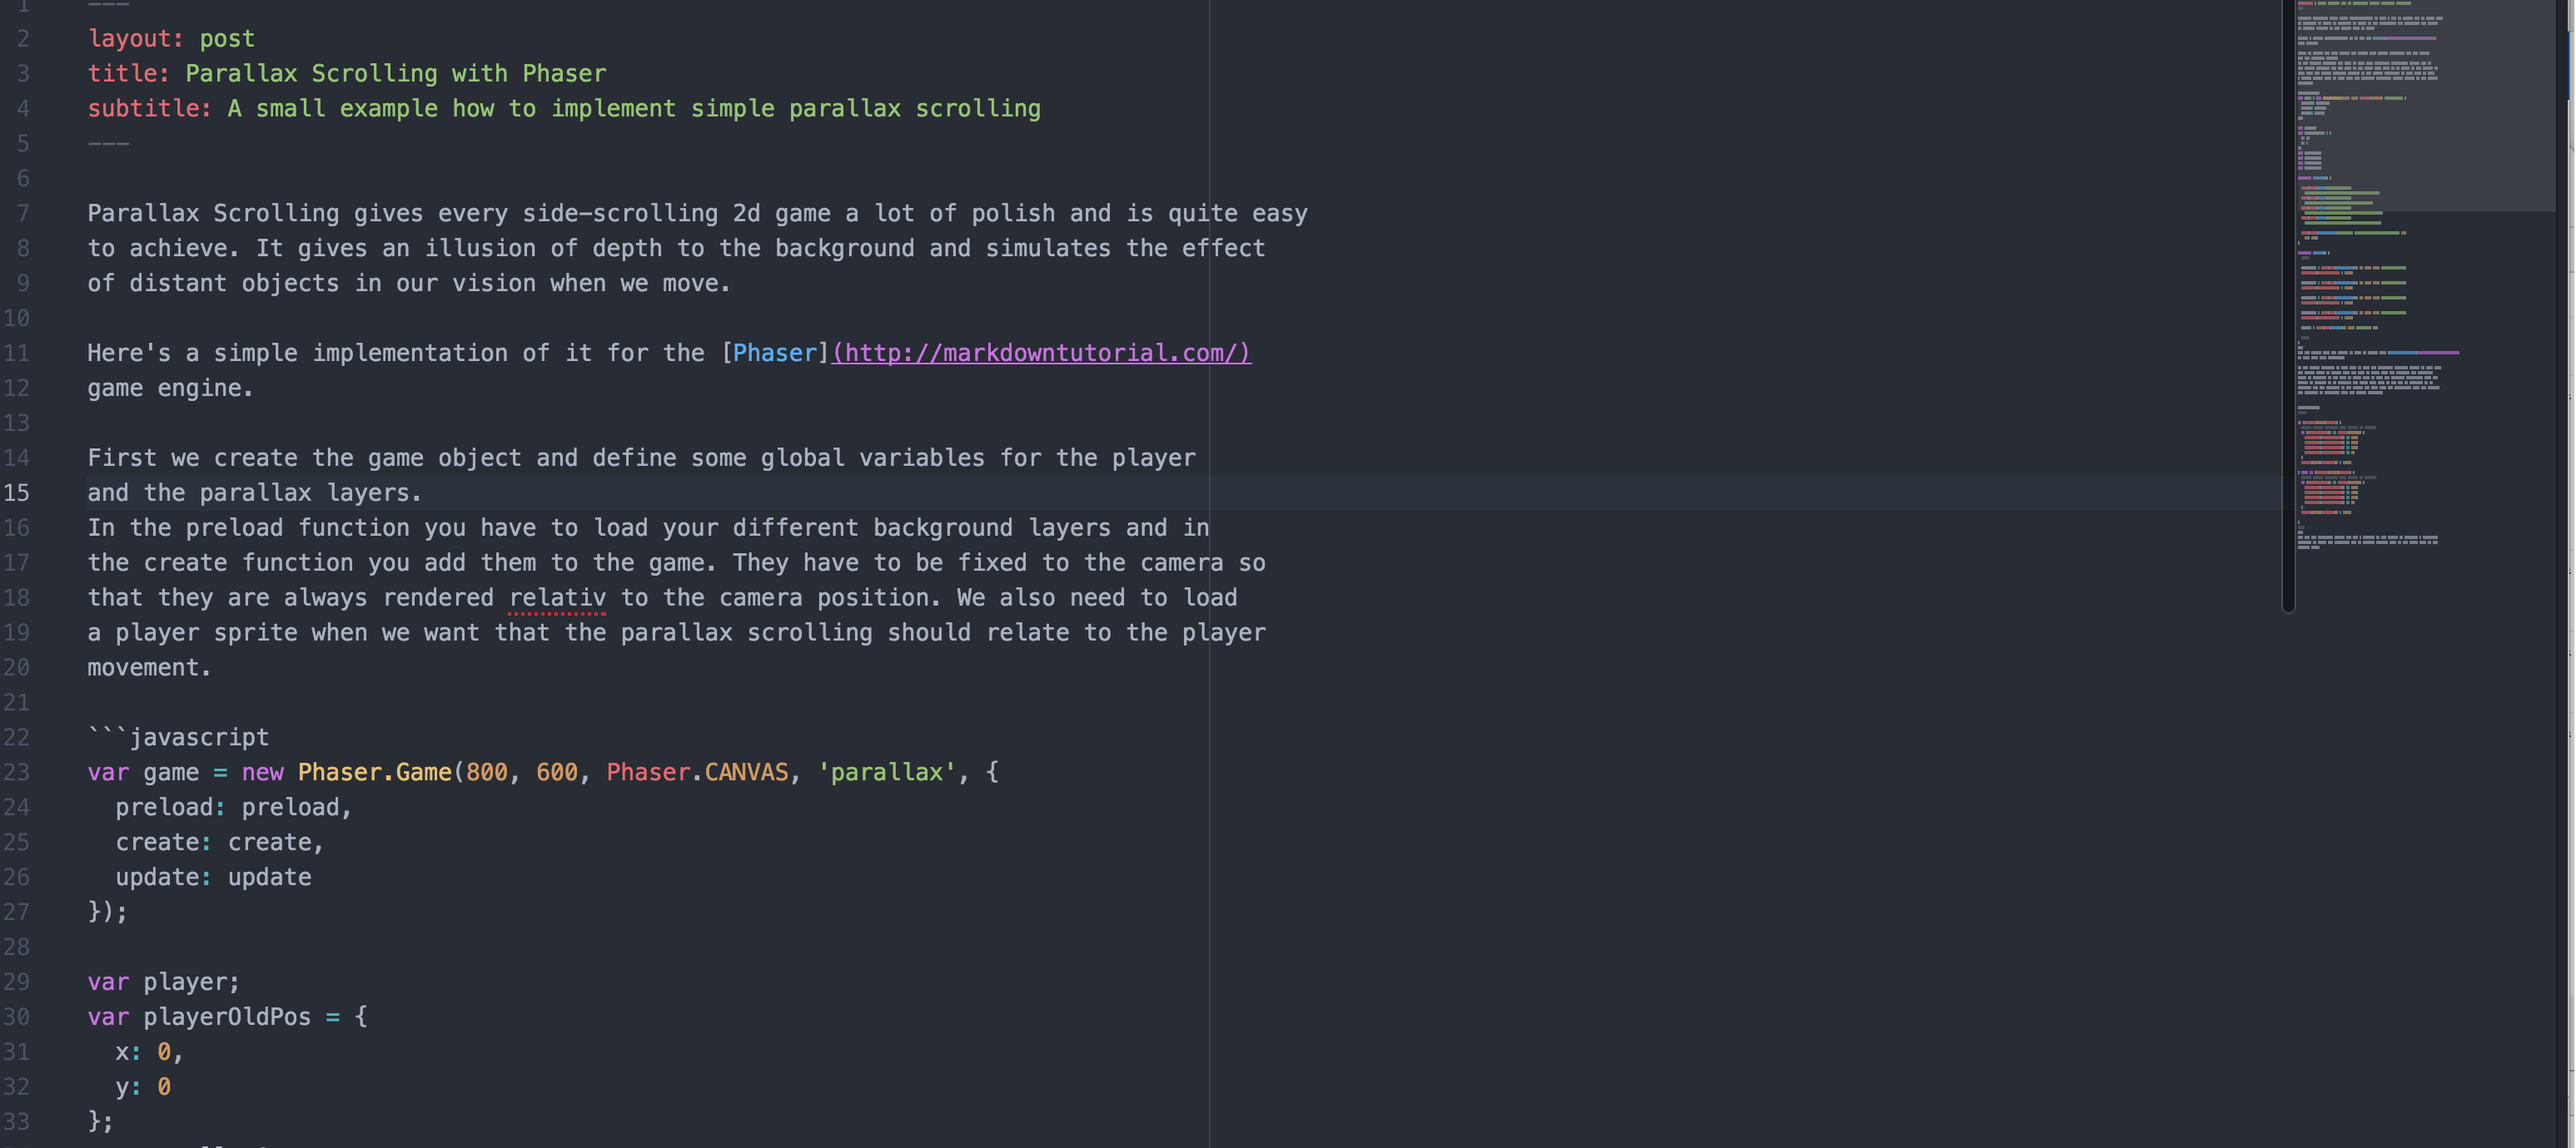
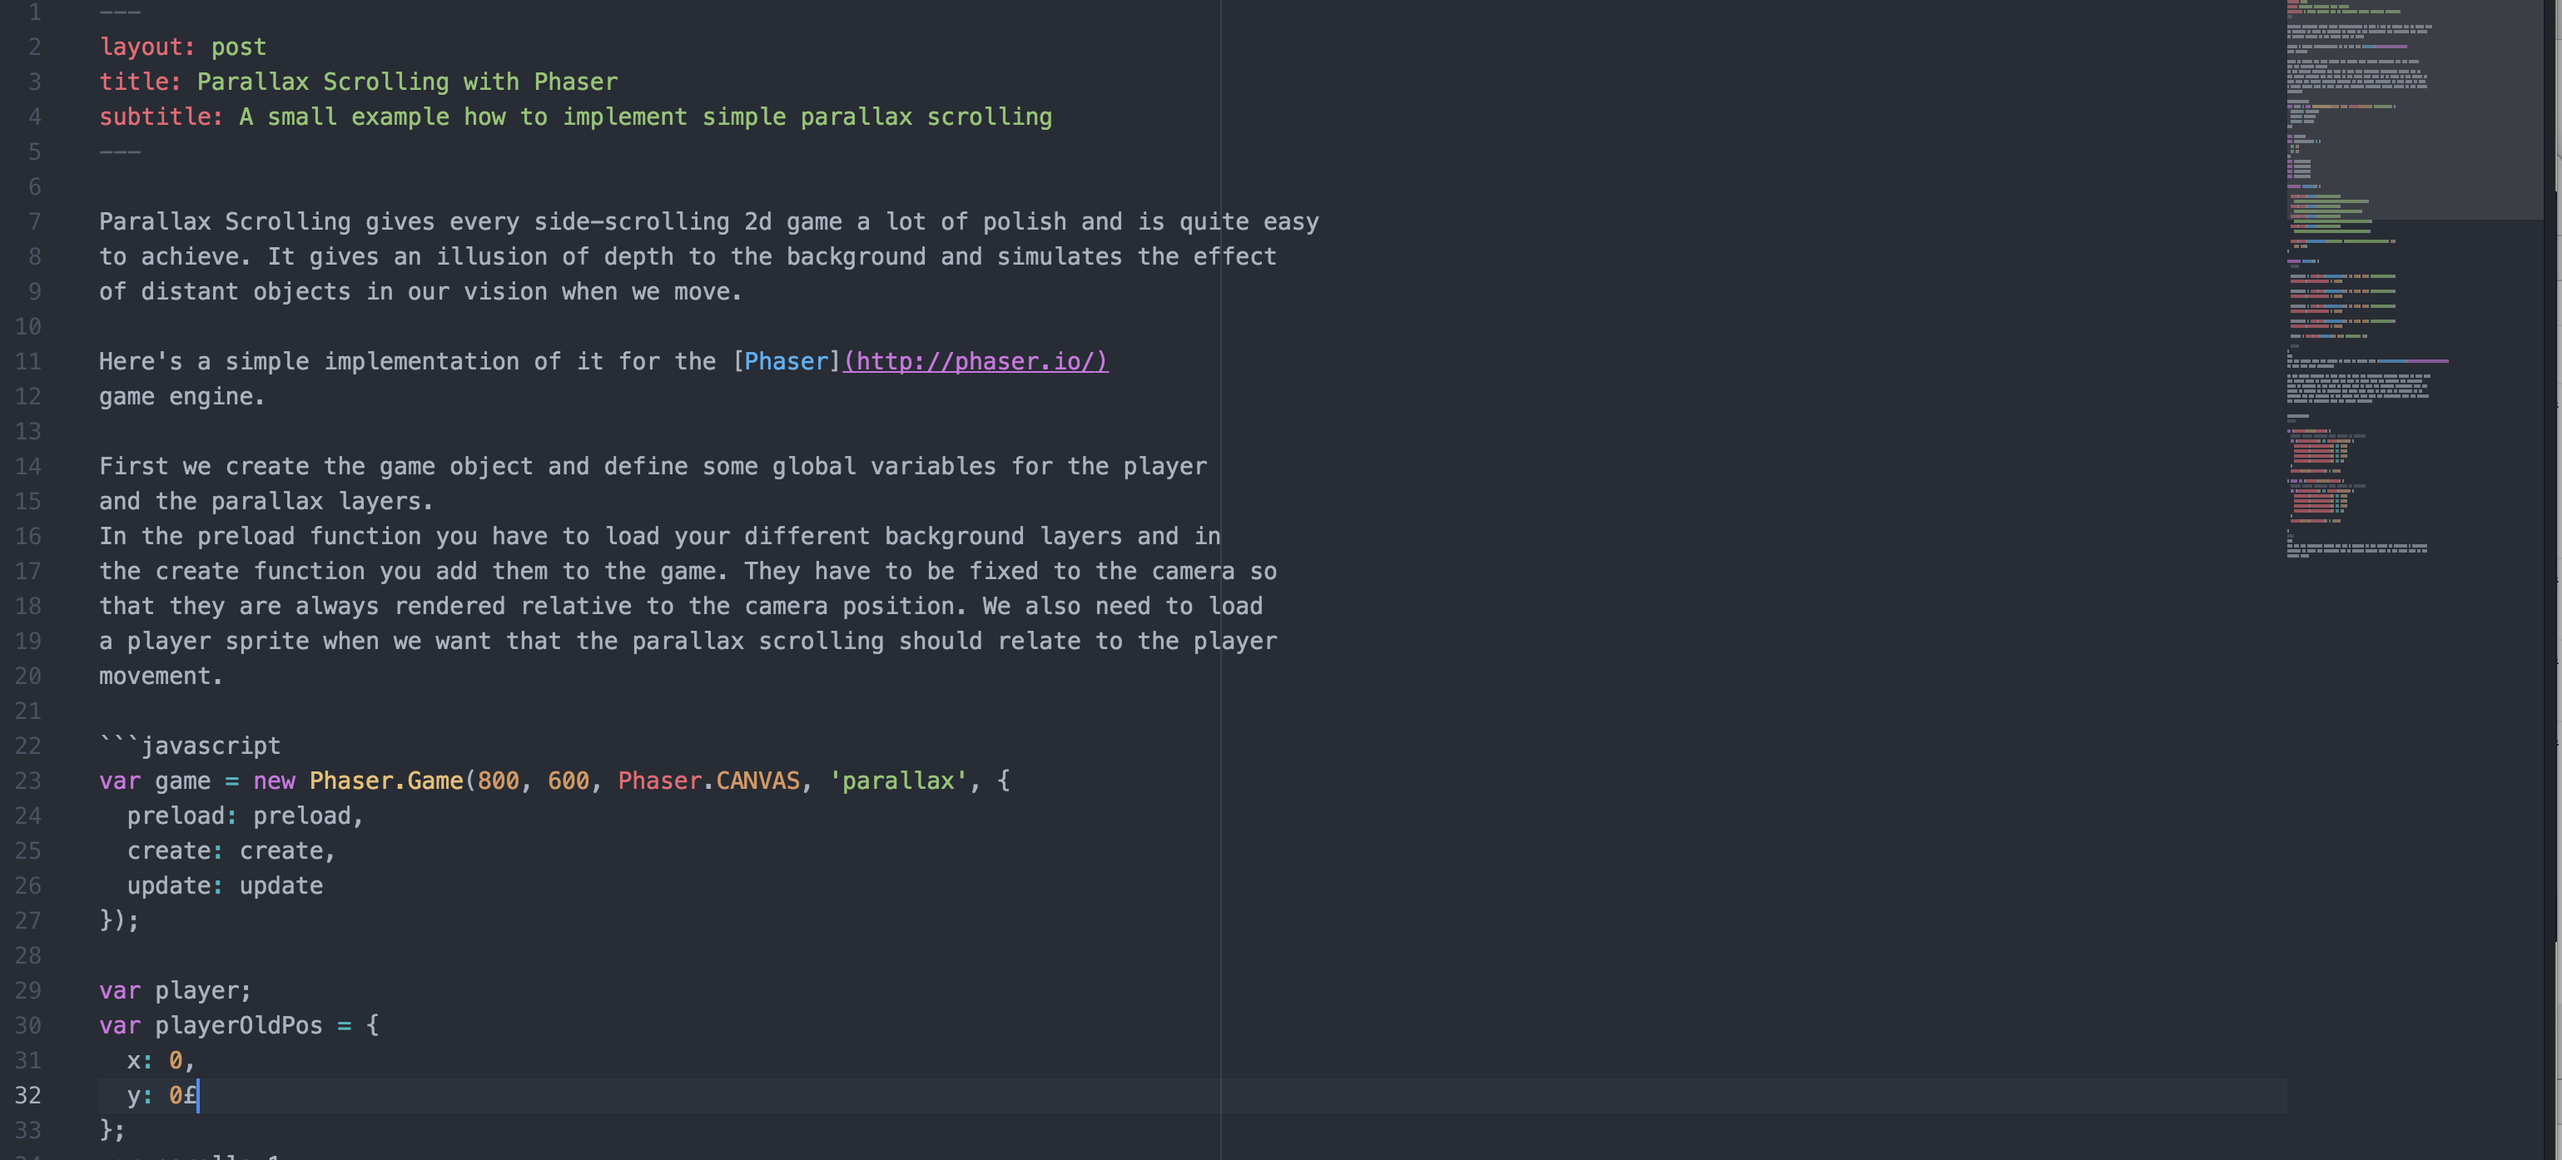
Fix typos Add pic

diff --git a/index.html b/index.html
@@ -4,7 +4,8 @@ title: Metascript
 subtitle: A place in the web for strange thoughts and me
 bigimg:
   - "img/metascriptcode.png" : "Meta Picture of Markdown code of this blog, Metascript 2016"
-  - "img/javascriptcode.png" : "Some code, JavaScript 2016"
+  - "img/javascriptcode.png" : "Some game code, JavaScript 2016"
+  - "img/metametacompr.jpg" : "Super meta picture of me working on a screenshot of a picture of the sources of this blog and a dragon saying things"
 ---
 
 <div class="posts-list">

diff --git a/_posts/2016-05-28-parallax-scrolling-with-phaser.md b/_posts/2016-05-28-parallax-scrolling-with-phaser.md
@@ -8,7 +8,7 @@ Parallax Scrolling gives every side-scrolling 2d game a lot of polish and is qui
 to achieve. It gives an illusion of depth to the background and simulates the effect
 of distant objects in our vision when we move.
 
-Here's a simple implementation of it for the [Phaser](http://markdowntutorial.com/)
+Here's a simple implementation of it for the [Phaser](http://phaser.io/)
 game engine.
 
 First we create the game object and define some global variables for the player
